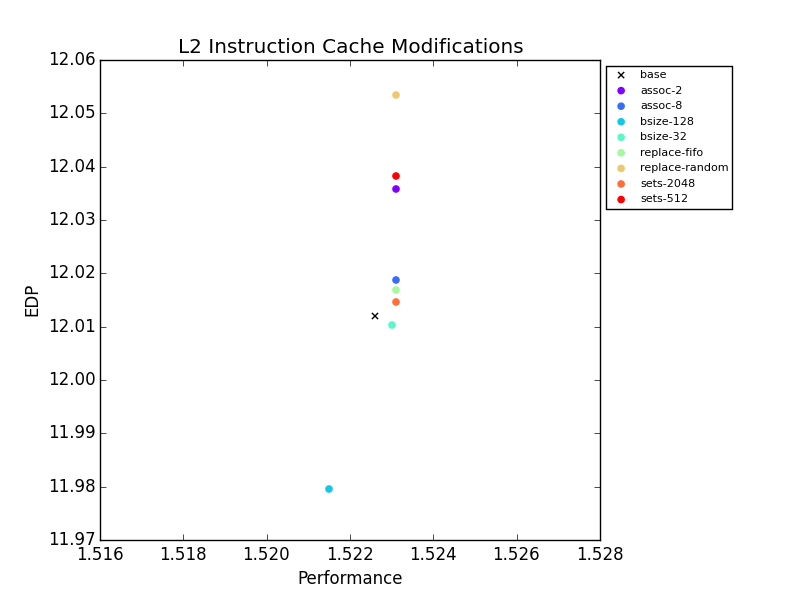
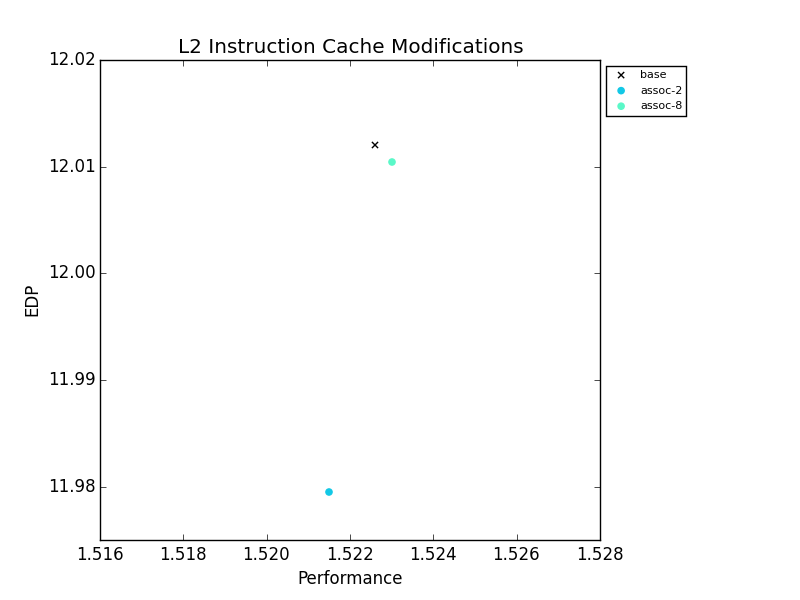
more bp configs

diff --git a/plotter.py b/plotter.py
@@ -50,16 +50,20 @@ for group_key, data in groups.iteritems():
     continue
   x = data["x"]
   y = data["y"]
+  base = {"ipc": groups["base"]["x"][0], "edp": groups["base"]["y"][0]}
   labels = data["labels"]
   labels.insert(0, "base")
   colors = cm.rainbow(np.linspace(0, 1, len(y)))
   fig = plt.figure()
   #fig = plt.figure(num=1, figsize=(13, 13), dpi=80, facecolor='w', edgecolor='k')
-  points = [plt.scatter(groups["base"]["x"][0], groups["base"]["y"][0], color="black", marker="x")]
+  points = [plt.scatter(base["ipc"], base["edp"], color="black", marker="x")]
   for i in range(0, len(y)):
-    points.append(plt.scatter(x[i], y[i], color=colors[i]))
+    ipc, edp = x[i], y[i]
+    show_point = edp < base["edp"] # or ipc > base["ipc"]
+    if show_point:
+      points.append(plt.scatter(ipc, edp, color=colors[i]))
   ax = plt.subplot(111)
-  plt.sca
+
   ax.set_title(titles[group_key])
   ax.set_xlabel("Performance")
   ax.set_ylabel("EDP")
